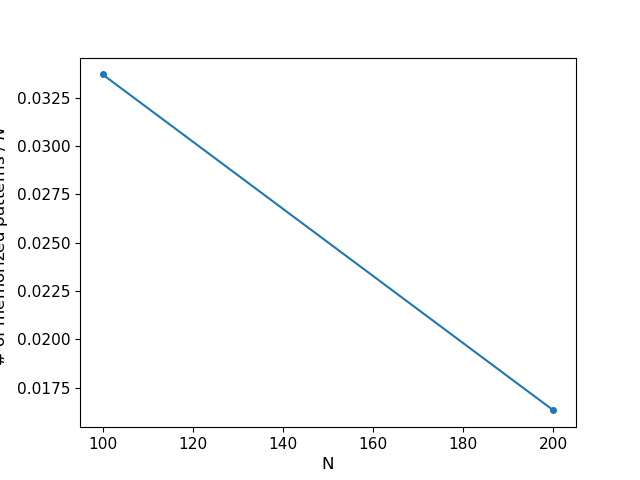
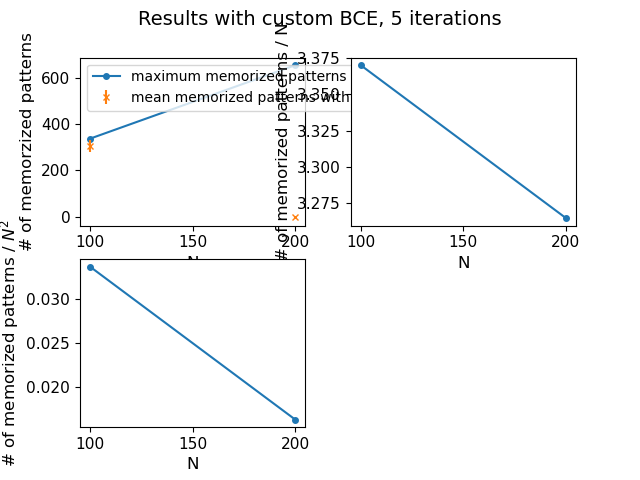
improved result plots

diff --git a/memoryPlot.py b/memoryPlot.py
@@ -8,6 +8,7 @@ Created on Sun Nov 26 17:12:11 2023
 import matplotlib.pyplot as plt
 import sys
 
+variance_iterations = 5
 
 #  simple loss
 # at N200 i increased best_loss - avg_loss from < 10 ** -4 to < 10**-5
@@ -48,24 +49,28 @@ dataset_size.append(600)
 # dataset_size.append()
 
 plt.close("all")
-plt.figure()  
-plt.plot(N, number_of_patterns, marker = 'o', ms = 4)
-plt.errorbar(N, mean_of_patterns, std, linestyle='None', marker = 'x', ms = 4)
-plt.title("", fontsize=14)
+plt.subplot(2, 2, 1)
+plt.suptitle("Results with BCE, {} iterations".format(variance_iterations), fontsize=14)
+plt.plot(N, number_of_patterns, marker = 'o', ms = 4, label="maximum memorized patterns")
+plt.errorbar(N, mean_of_patterns, std, linestyle='None', marker = 'x', ms = 4, label="mean memorized patterns with standard deviation")
+plt.legend(loc="upper left")
+# plt.title("", fontsize=14)
 plt.ylabel("# of memorzized patterns", fontsize=12)
 plt.xlabel("N", fontsize=12)
 plt.tick_params(axis='both', labelsize=11)
 plt.savefig("memoryPlot" + ".png")
-plt.figure()  
+
+plt.subplot(2, 2, 2)
 plt.plot(N, [i / j for i, j in zip(number_of_patterns, N)], marker = 'o', ms = 4)
-plt.title("", fontsize=14)
+# plt.title("", fontsize=14)
 plt.ylabel("# of memorized patterns / N", fontsize=12)
 plt.xlabel("N", fontsize=12)
 plt.tick_params(axis='both', labelsize=11)
 plt.savefig("slope" + ".png")
-plt.figure()  
+
+plt.subplot(2, 2, 3)
 plt.plot(N, [i / j**2 for i, j in zip(number_of_patterns, N)], marker = 'o', ms = 4)
-plt.title("", fontsize=14)
+# plt.title("", fontsize=14)
 plt.ylabel("# of memorized patterns / $N^2$", fontsize=12)
 plt.xlabel("N", fontsize=12)
 plt.tick_params(axis='both', labelsize=11)
@@ -105,24 +110,29 @@ std.append(5)
 # std.append()
 # dataset_size.append()
 
-plt.figure()  
-plt.plot(N, number_of_patterns, marker = 'o', ms = 4)
-plt.errorbar(N, mean_of_patterns, std, linestyle='None', marker = 'x', ms = 4)
-plt.title("", fontsize=14)
+plt.figure()
+plt.subplot(2, 2, 1)
+plt.suptitle("Results with custom BCE, {} iterations".format(variance_iterations), fontsize=14)
+plt.plot(N, number_of_patterns, marker = 'o', ms = 4, label="maximum memorized patterns")
+plt.errorbar(N, mean_of_patterns, std, linestyle='None', marker = 'x', ms = 4, label="mean memorized patterns with standard deviation")
+plt.legend(loc="upper left")
+# plt.title("", fontsize=14)
 plt.ylabel("# of memorzized patterns", fontsize=12)
 plt.xlabel("N", fontsize=12)
 plt.tick_params(axis='both', labelsize=11)
 plt.savefig("memoryPlotCustom" + ".png")
-plt.figure()  
+
+plt.subplot(2, 2, 2)
 plt.plot(N, [i / j for i, j in zip(number_of_patterns, N)], marker = 'o', ms = 4)
-plt.title("", fontsize=14)
+# plt.title("", fontsize=14)
 plt.ylabel("# of memorized patterns / N", fontsize=12)
 plt.xlabel("N", fontsize=12)
 plt.tick_params(axis='both', labelsize=11)
 plt.savefig("slopeCustom" + ".png")
-plt.figure()  
+
+plt.subplot(2, 2, 3)
 plt.plot(N, [i / j**2 for i, j in zip(number_of_patterns, N)], marker = 'o', ms = 4)
-plt.title("", fontsize=14)
+# plt.title("", fontsize=14)
 plt.ylabel("# of memorized patterns / $N^2$", fontsize=12)
 plt.xlabel("N", fontsize=12)
 plt.tick_params(axis='both', labelsize=11)
